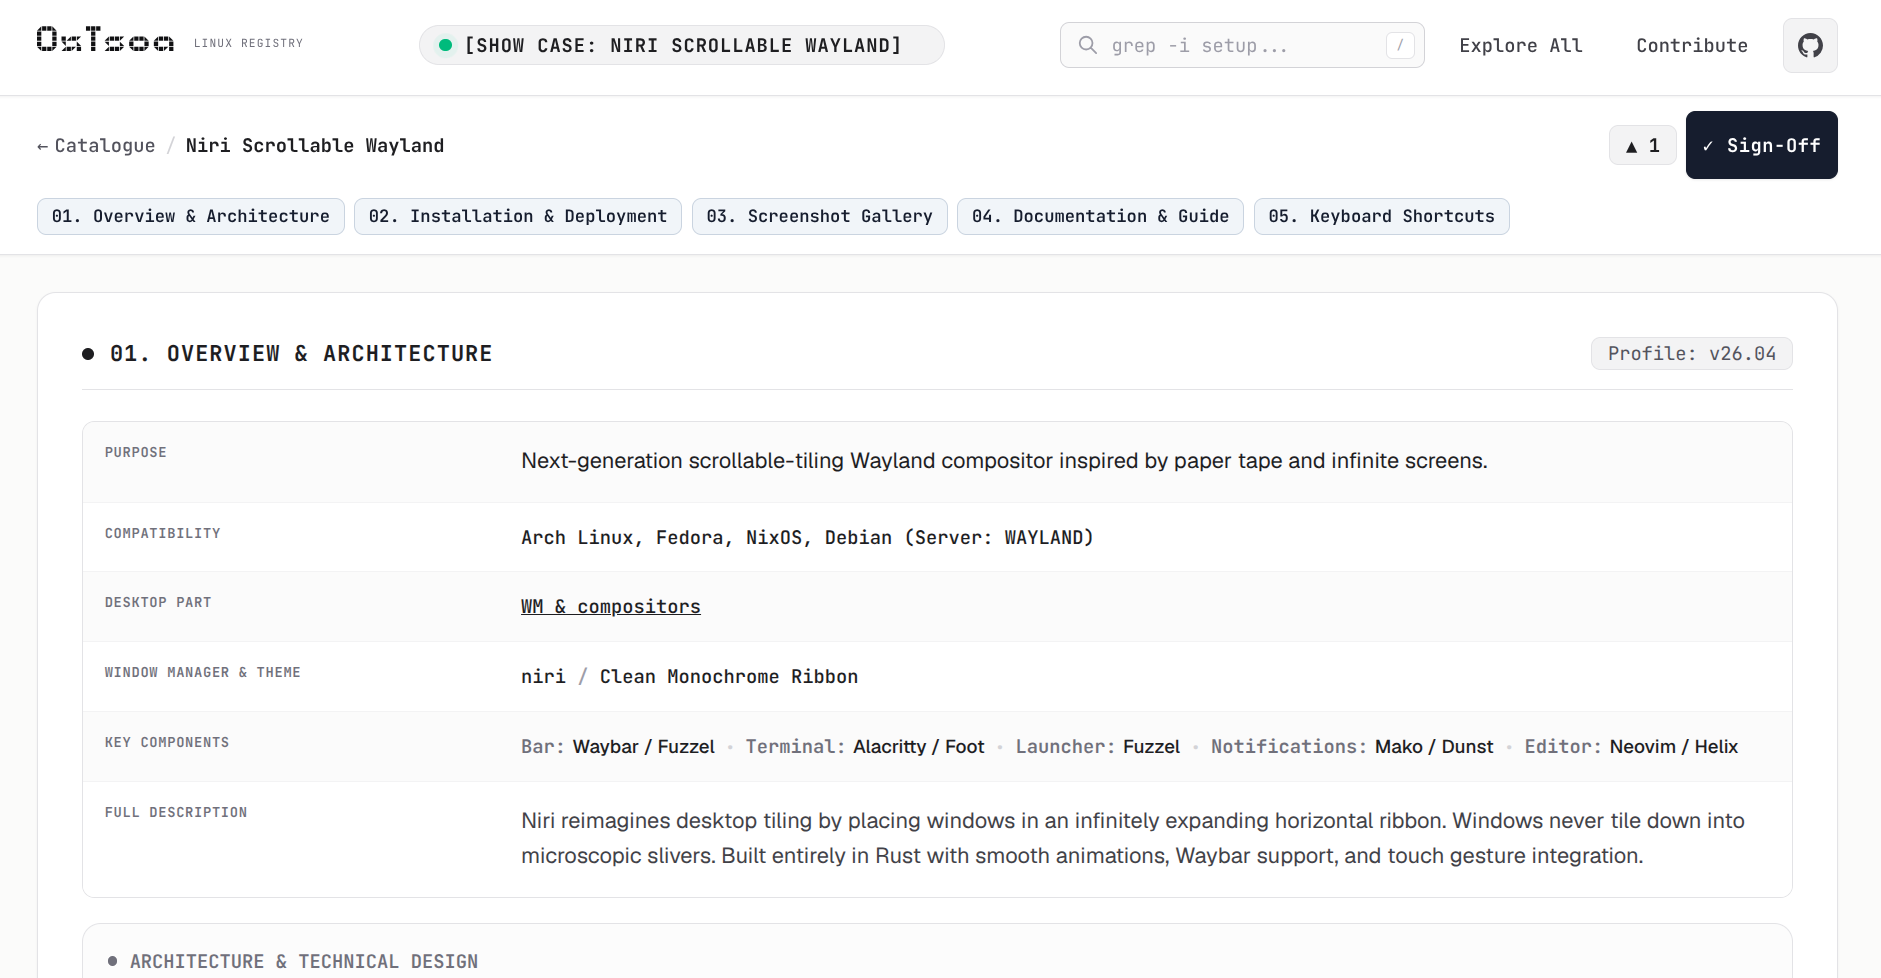
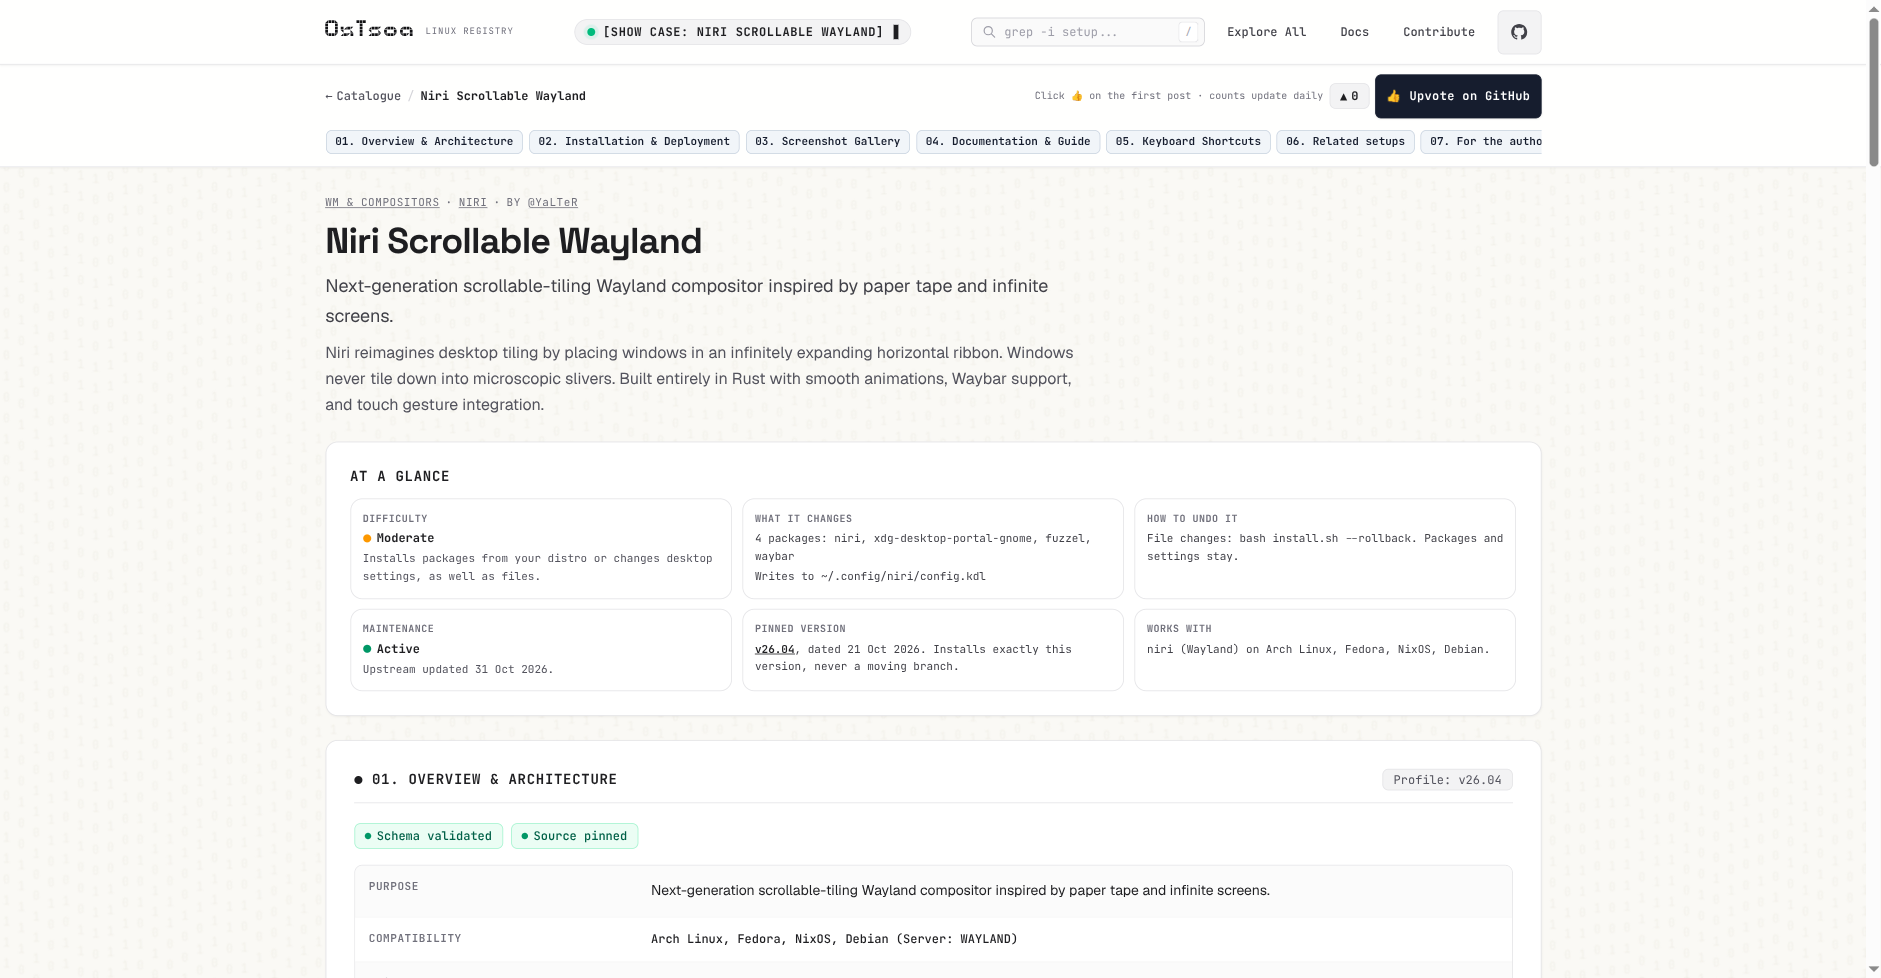
Update screenshots and enhance README content for clarity and detail

diff --git a/README.md b/README.md
@@ -70,7 +70,7 @@ Each configuration page brings together everything needed to inspect and reprodu
 
 - **Overview**: purpose, supported distributions, display server, window manager, key components, and assurance badges (**Schema validated**, **Source pinned**, **Script hash-checked**, **Install reviewed**).
 - **Installation**: step-by-step commands that check out `{{ref}}`, plus a downloadable script.
-- **Screenshots and documentation**: a gallery and the upstream README rendered at `source.ref`.
+- **Screenshots and documentation**: a gallery and an excerpt of the upstream README rendered at `source.ref`.
 - **Keyboard shortcuts** and a **community upvote** counter backed by a GitHub issue.
 
 <picture>
@@ -101,32 +101,32 @@ Each configuration page brings together everything needed to inspect and reprodu
 <div align="center">
 
 ### 01. Home
-<p>Registry landing page with quick search, the community Spotlight and shortcuts by window manager and style.</p>
+<p>Registry landing page with quick search, a Spotlight of recently updated entries and links to topic pages.</p>
 <img src=".github/assets/screenshots/01-home.png" alt="0xTsoa home page" width="100%" />
 
 <br/><br/>
 
 ### 02. Catalogue and Filters
-<p>Every entry in one list, filterable by desktop part, window manager, theme style and distribution, and sortable by approvals, date or upstream stars.</p>
+<p>Every entry in one list, filterable by desktop part, window manager, theme style and distribution, and sortable by upvotes, date or upstream stars.</p>
 <img src=".github/assets/screenshots/02-catalogue.png" alt="0xTsoa catalogue with desktop-part, window manager, style and distribution filters" width="100%" />
 
 <br/><br/>
 
 ### 03. Configuration Overview
-<p>Purpose, compatibility, desktop part, window manager, theme and key components of a setup, with its community upvote counter.</p>
-<img src=".github/assets/screenshots/03-overview.png" alt="0xTsoa configuration overview page" width="100%" />
+<p>Difficulty, what an install changes, how to undo it, maintenance status and pinned version at a glance, with a community upvote counter.</p>
+<img src=".github/assets/screenshots/03-overview.png" alt="0xTsoa configuration page with its At a glance summary" width="100%" />
 
 <br/><br/>
 
 ### 04. Installation and Deployment
-<p>Step-by-step install commands (dependencies, deploy, reload) pinned to the recorded commit, plus a downloadable shell script.</p>
+<p>What the install changes and how to recover, manual steps pinned to the reviewed commit, and a guided installer with <code>--dry-run</code> and <code>--rollback</code>.</p>
 <img src=".github/assets/screenshots/04-install.png" alt="0xTsoa installation steps and script download" width="100%" />
 
 <br/><br/>
 
 ### 05. Screenshot Gallery and Upstream README
-<p>Fullscreen screenshot gallery and the project's README, rendered and sanitized at the pinned commit.</p>
-<img src=".github/assets/screenshots/05-gallery-readme.png" alt="0xTsoa screenshot gallery and rendered upstream README" width="100%" />
+<p>Fullscreen screenshot gallery and an excerpt of the project's README, rendered and sanitized at the pinned commit.</p>
+<img src=".github/assets/screenshots/05-gallery-readme.png" alt="0xTsoa screenshot gallery and upstream README excerpt" width="100%" />
 
 <br/><br/>
 
